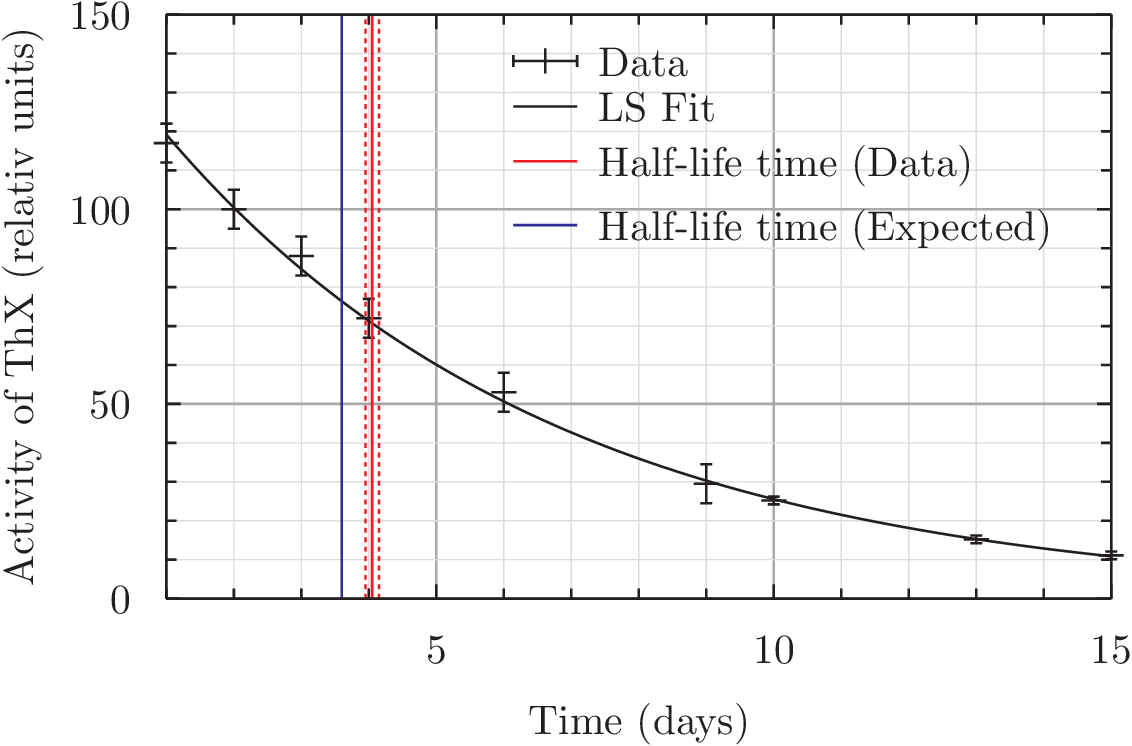
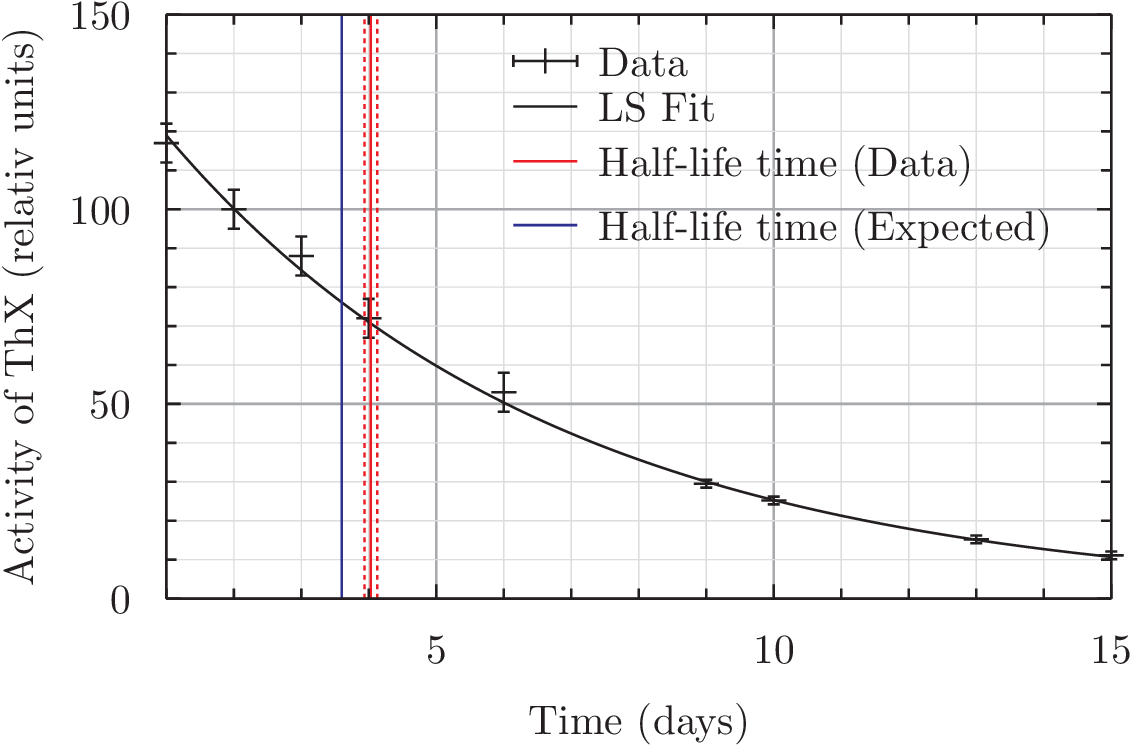
Checked homework

diff --git a/homework/LeastSquaresFit/B/main.cs b/homework/LeastSquaresFit/B/main.cs
@@ -7,7 +7,7 @@ class main{
 		// Data
 		var t = new vector(new double[] {1,  2,  3, 4, 6, 9,   10,  13,  15});
 		var y = new vector(new double[] {117,100,88,72,53,29.5,25.2,15.2,11.1}); 
-		var dy = new vector(new double[] {5,5,5,5,5,5,1,1,1,1});
+		var dy = new vector(new double[] {5,5,5,5,5,1,1,1,1});
 		
 		//Function 
 		var fs = new Func<double,double>[]{x => 1.0, x => -x};
@@ -65,7 +65,7 @@ class main{
 
 
 		// T05 textfile
-		var T05_file = new System.IO.StreamWriter("T05.txt", append:true);
+		var T05_file = new System.IO.StreamWriter("Out.txt", append:true);
 		T05_file.WriteLine("Half-Life time of ThX");
 		T05_file.WriteLine("");
 		T05_file.WriteLine($"Modern value: {t05exact}");

diff --git a/homework/LeastSquaresFit/C/main.cs b/homework/LeastSquaresFit/C/main.cs
@@ -7,7 +7,7 @@ class main{
 		// Data
 		var t = new vector(new double[] {1,  2,  3, 4, 6, 9,   10,  13,  15});
 		var y = new vector(new double[] {117,100,88,72,53,29.5,25.2,15.2,11.1}); 
-		var dy = new vector(new double[] {5,5,5,5,5,5,1,1,1,1});
+		var dy = new vector(new double[] {5,5,5,5,5,1,1,1,1});
 		
 		//Function 
 		var fs = new Func<double,double>[]{x => 1.0, x => -x};
